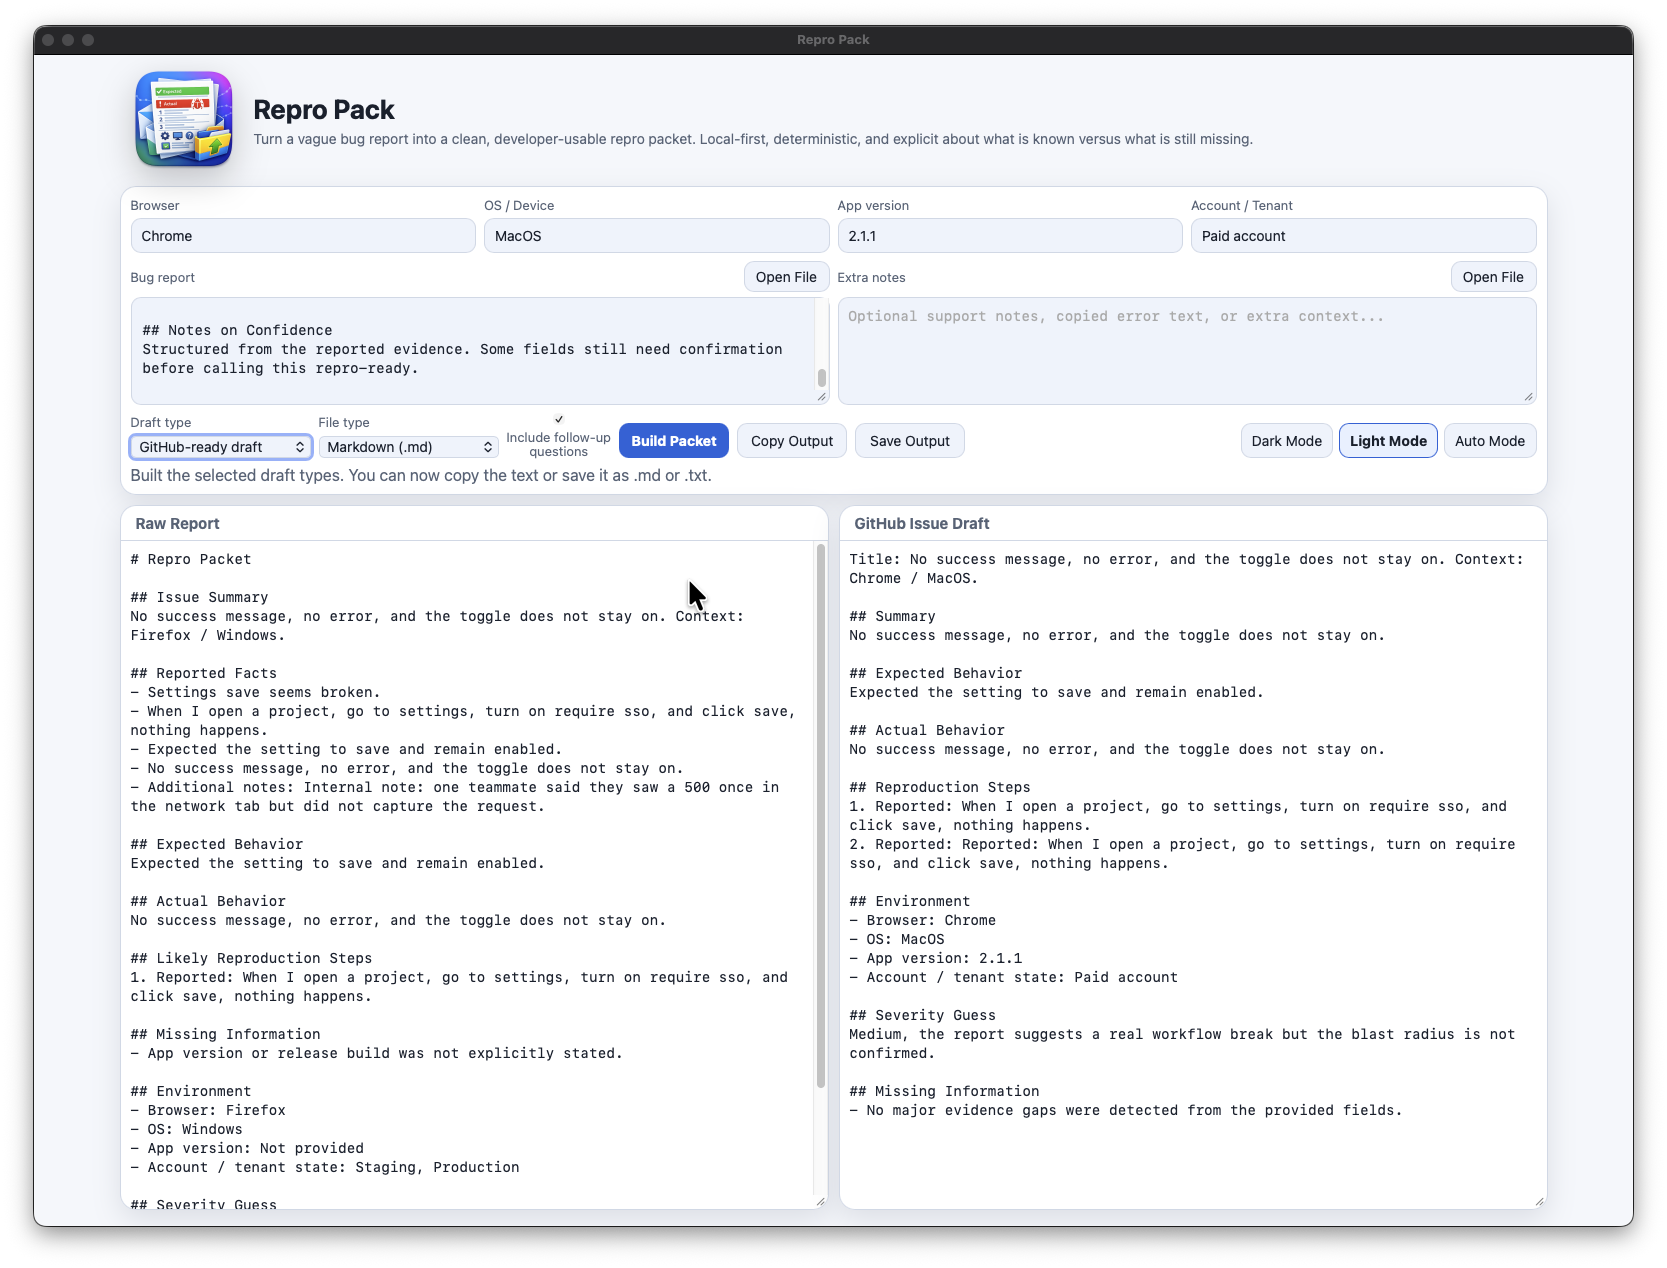
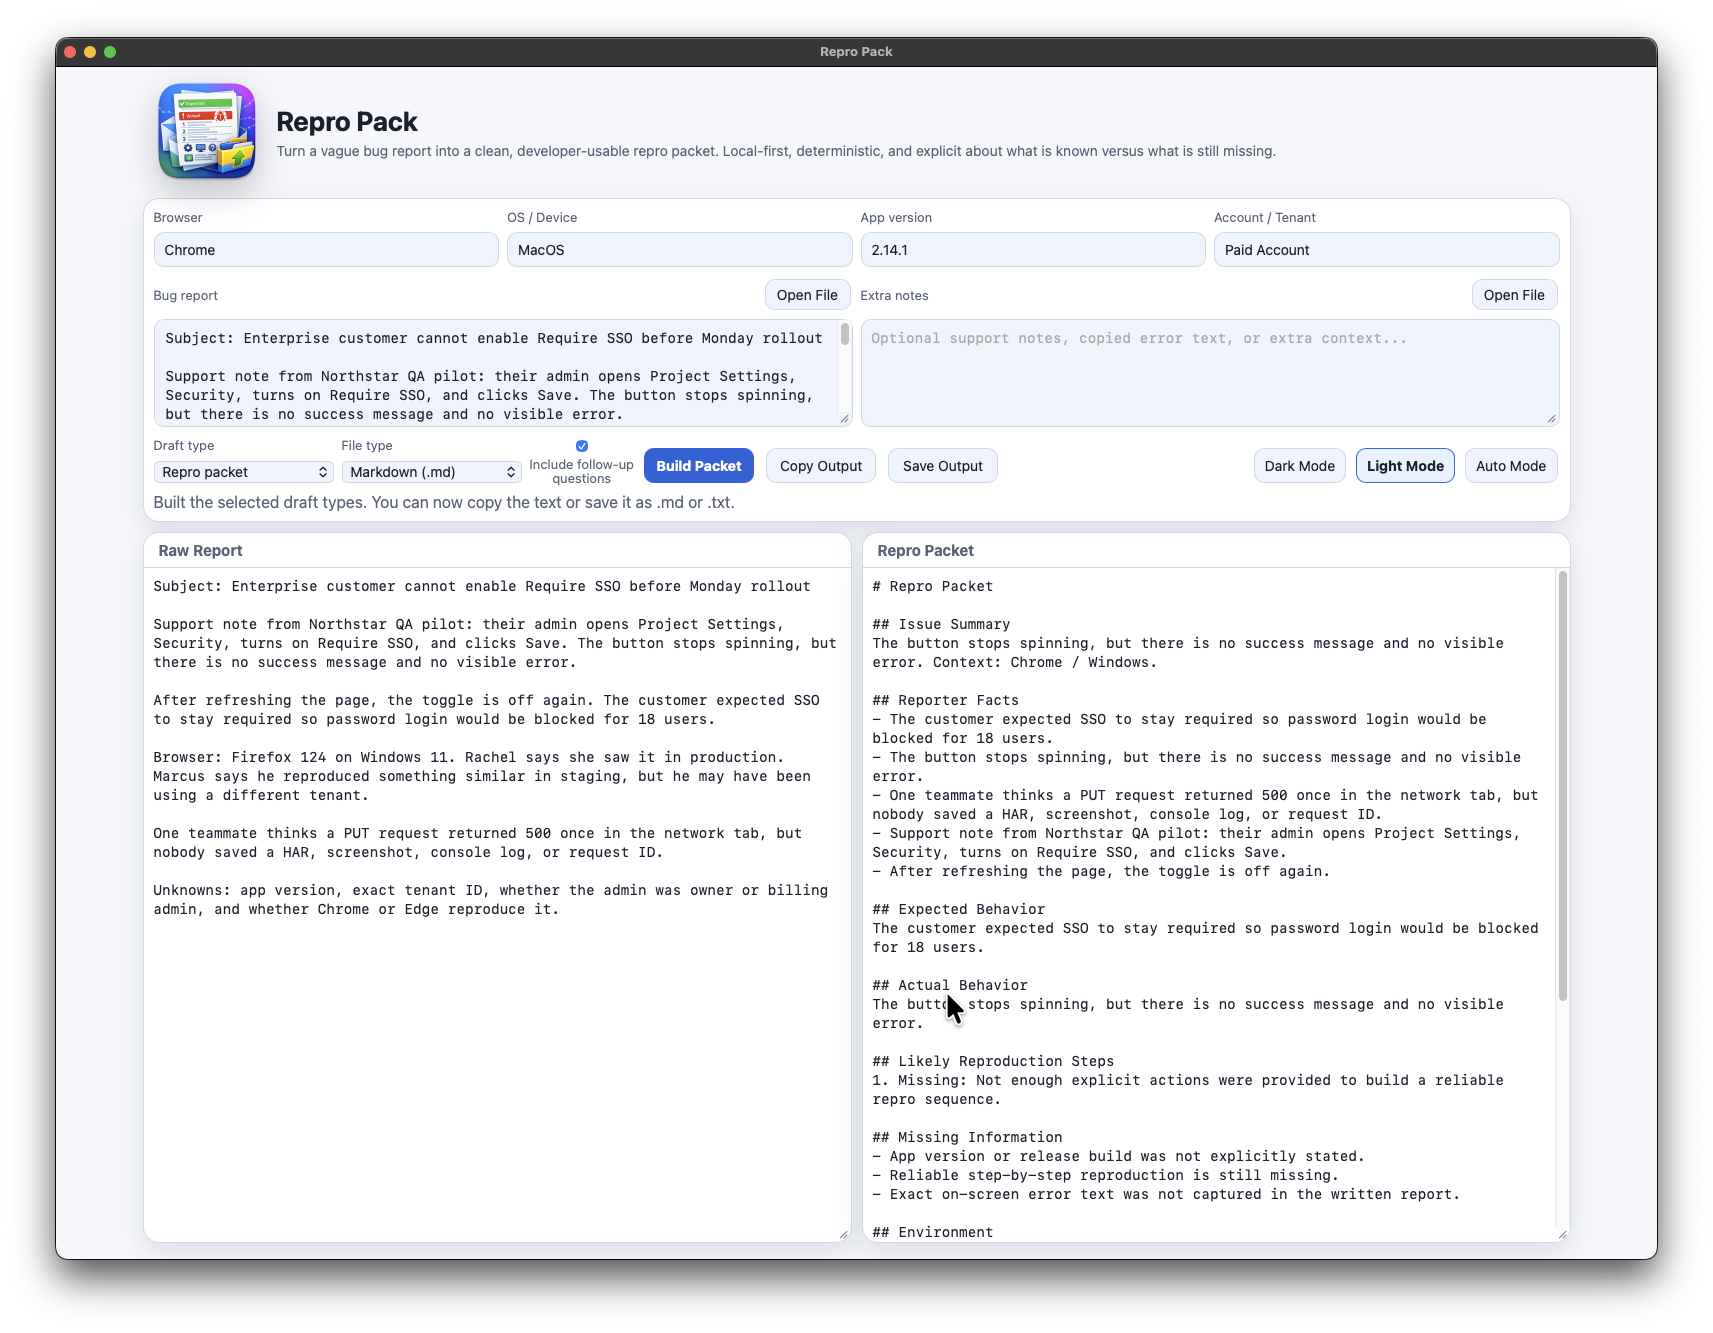
Refresh Repro Pack example and screenshots

diff --git a/repro-pack.html b/repro-pack.html
@@ -228,35 +228,52 @@
                 <div class="proof-layout">
                     <article class="page-card proof-sample-card">
                         <h3>Raw report in</h3>
-                        <pre class="proof-sample-text">Settings save seems broken.
+                        <pre class="proof-sample-text">Subject: Enterprise customer cannot enable Require SSO before Monday rollout
 
-When I open a project, go to settings, turn on require SSO, and click save, nothing happens.
+Support note from Northstar QA pilot: their admin opens Project Settings, Security, turns on Require SSO, and clicks Save. The button stops spinning, but there is no success message and no visible error.
 
-Expected it to save and stay enabled.
-No success message, no error, and the toggle does not stay on.
-Context: Firefox / Windows.</pre>
+After refreshing the page, the toggle is off again. The customer expected SSO to stay required so password login would be blocked for 18 users.
+
+Browser: Firefox 124 on Windows 11. Rachel says she saw it in production. Marcus says he reproduced something similar in staging, but he may have been using a different tenant.
+
+One teammate thinks a PUT request returned 500 once in the network tab, but nobody saved a HAR, screenshot, console log, or request ID.
+
+Unknowns: app version, exact tenant ID, whether the admin was owner or billing admin, and whether Chrome or Edge reproduce it.</pre>
                     </article>
                     <article class="page-card proof-sample-card">
                         <h3>Repro packet out</h3>
                         <pre class="proof-sample-text"># Issue Summary
-Settings save appears to fail silently when enabling Require SSO.
+Require SSO appears to save silently but does not remain enabled.
 
 ## Reported Facts
-- Browser: Firefox
-- OS: Windows
-- Action: Enable Require SSO and click Save
-- Expected: Setting remains enabled
-- Actual: No success message, no error, toggle does not stay on
+- Customer is blocked before a Monday SSO rollout for 18 users.
+- Admin enables Require SSO in Project Settings, Security, then clicks Save.
+- The button stops spinning, but no success message or visible error appears.
+- After refresh, Require SSO is off again.
+- Browser: Firefox 124
+- OS: Windows 11
+- Production and staging were both mentioned.
+- A teammate may have seen a 500 response, but no request evidence was captured.
+
+## Expected Behavior
+Require SSO should stay enabled after Save and remain enabled after refresh.
+
+## Actual Behavior
+The setting appears to revert off without a visible success or error state.
 
 ## Missing Information
 - App version or release build
-- Tenant type or account role
-- Network request or console error
+- Exact tenant ID and account role
+- HAR, console log, screenshot, or request ID for the possible 500
+- Whether Chrome or Edge reproduce the failure
+
+## Severity Guess
+High, because a security rollout is blocked, but blast radius is unconfirmed.
 
 ## Follow-Up Questions
-- Which app version was running?
-- Does the issue reproduce in Chrome?
-- Is there a captured failed request?</pre>
+- Which tenant and role reproduced the latest failure?
+- Can the team reproduce once with the network tab open?
+- Does the same save flow fail in Chrome or Edge?</pre>
                     </article>
                 </div>
             </div>
@@ -274,7 +291,7 @@ Settings save appears to fail silently when enabling Require SSO.
                 <div class="proof-layout proof-layout-stacked">
                     <div class="proof-visuals">
                         <figure class="screenshot-card">
-                            <button class="screenshot-link" type="button" data-media="image" data-src="assets/screenshots/Repro-Pack-Dark-Mode.png" data-title="Repro Pack in dark mode" data-width="1711" data-height="1312">
+                            <button class="screenshot-link" type="button" data-media="image" data-src="assets/screenshots/Repro-Pack-Dark-Mode.png" data-title="Repro Pack in dark mode" data-width="1713" data-height="1333">
                                 <img src="assets/screenshots/Repro-Pack-Dark-Mode.png" alt="Repro Pack in dark mode showing report fields, draft type controls, raw report text, and a GitHub issue draft.">
                             </button>
                             <figcaption>
@@ -283,7 +300,7 @@ Settings save appears to fail silently when enabling Require SSO.
                             </figcaption>
                         </figure>
                         <figure class="screenshot-card">
-                            <button class="screenshot-link" type="button" data-media="image" data-src="assets/screenshots/Repro-Pack-Light-Mode.png" data-title="Repro Pack in light mode" data-width="1667" data-height="1268">
+                            <button class="screenshot-link" type="button" data-media="image" data-src="assets/screenshots/Repro-Pack-Light-Mode.png" data-title="Repro Pack in light mode" data-width="1713" data-height="1333">
                                 <img src="assets/screenshots/Repro-Pack-Light-Mode.png" alt="Repro Pack in light mode showing the same bug report cleanup workflow with raw report text and GitHub issue draft output.">
                             </button>
                             <figcaption>